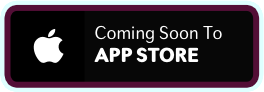
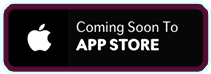
improvements

diff --git a/css/newsletter.css b/css/newsletter.css
@@ -137,7 +137,7 @@
     font-size: 17px;
 }
  div#sib_embed_signup .button{
-    font-size: 14px;
+    font-size: 25px;
 }
  div#sib_embed_signup input {
     font-size: 13px;
@@ -195,21 +195,26 @@
     text-shadow: rgb(81, 8, 51) 4px 0px 0px, rgb(81, 8, 51) 3.87565px 0.989616px 0px, rgb(81, 8, 51) 3.51033px 1.9177px 0px, rgb(81, 8, 51) 2.92676px 2.72656px 0px, rgb(81, 8, 51) 2.16121px 3.36588px 0px, rgb(81, 8, 51) 1.26129px 3.79594px 0px, rgb(81, 8, 51) 0.282949px 3.98998px 0px, rgb(81, 8, 51) -0.712984px 3.93594px 0px, rgb(81, 8, 51) -1.66459px 3.63719px 0px, rgb(81, 8, 51) -2.51269px 3.11229px 0px, rgb(81, 8, 51) -3.20457px 2.39389px 0px, rgb(81, 8, 51) -3.69721px 1.52664px 0px, rgb(81, 8, 51) -3.95997px 0.56448px 0px, rgb(81, 8, 51) -3.97652px -0.432781px 0px, rgb(81, 8, 51) -3.74583px -1.40313px 0px, rgb(81, 8, 51) -3.28224px -2.28625px 0px, rgb(81, 8, 51) -2.61457px -3.02721px 0px, rgb(81, 8, 51) -1.78435px -3.57996px 0px, rgb(81, 8, 51) -0.843183px -3.91012px 0px, rgb(81, 8, 51) 0.150409px -3.99717px 0px, rgb(81, 8, 51) 1.13465px -3.8357px 0px, rgb(81, 8, 51) 2.04834px -3.43574px 0px, rgb(81, 8, 51) 2.83468px -2.82216px 0px, rgb(81, 8, 51) 3.44477px -2.03312px 0px, rgb(81, 8, 51) 3.84068px -1.11766px 0px, rgb(81, 8, 51) 3.9978px -0.132717px 0px;
     color: #CDF2E8;
     font-weight: 250;
-    
-    background: #F78E39; 
-    display: inline-block; 
+    background: #F78E39;
+    display: inline-block;
     white-space: nowrap;
-     min-height: 60px;
-      margin: 0px 5px 0px 0px; 
-      padding: 0px 22px; 
-       text-transform: uppercase; 
-       text-align: center; 
-       font-size: 14px; 
-       cursor: pointer; 
-       border: 0px; 
-       border-radius: 4px; 
-       vertical-align: top; 
-       height: auto; 
+    /* min-height: 60px; */
+    /* margin: 0px 5px 0px 0px; */
+    padding: 2px 5px;
+    text-transform: uppercase;
+    text-align: center;
+    font-size: 14px;
+    cursor: pointer;
+    border: 3px solid #500e34;
+    border-radius: 20px;
+    vertical-align: top;
+    height: auto;
     line-height: 150%;
+    /* border-color: #500e34; */
+    width: 150px;
+    -webkit-box-shadow: 0px 0px 5px 5px rgba(255,255,255,1);
+    -moz-box-shadow: 0px 0px 5px 5px rgba(255,255,255,1);
+    box-shadow: 0px 0px 5px 5px rgba(255,255,255,1);
+        
 
 }

diff --git a/index.html b/index.html
@@ -147,13 +147,16 @@
             <div class="captcha forms-builder-group" style="">
                <div class="row" style="font-family: &quot;Helvetica Neue&quot;, Helvetica, Arial, sans-serif; color: rgb(52, 52, 52); font-size: 17px; padding: 10px 20px;">
                   <div id="gcaptcha" style="transform: scale(1); margin-left: 0px;"></div>
+                  <div class="byline" style="font-family: &quot;Helvetica Neue&quot;, Helvetica, Arial, sans-serif; color: rgb(52, 52, 52); font-weight: bold; font-size: 16px; text-align: center; display: block; padding-left: 100px;
+    padding-top: 13px;
+    align-content: center;">
+               <button class="button editable subcribe-button " type="submit" data-editfield="subscribe" >ENTER</button>
+            </div>
+            <div style="clear:both;"></div>
                </div>
             </div>
             <!-- end of primary -->
-            <div class="byline" style="font-family: &quot;Helvetica Neue&quot;, Helvetica, Arial, sans-serif; color: rgb(52, 52, 52); font-weight: bold; font-size: 16px; text-align: center; display: block;">
-               <button class="button editable subcribe-button " type="submit" data-editfield="subscribe" >Be Beta Tester</button>
-            </div>
-            <div style="clear:both;"></div>
+            
          </div>
       </form>
    </div>
@@ -199,13 +202,13 @@
       <div class="row">
         <div class="col-lg-6 mr-auto">
           <div class="footer-logo">
-            <img src="images/logo.png" alt="footer-logo">
+            <img src="images/titles/bunny-logo.png" alt="footer-logo">
           </div>
-          <div class="copyright">
+         <!-- <div class="copyright">
             <p>@2018 Themefisher All Rights Reserved  |  Design By : <a href="https://themefisher.com/" target="_blank">Themefisher</a>  Team
               <br>Get More <a href="https://themefisher.com/free-bootstrap-templates/" target="_blank">Free Bootstrap Templates</a>
             </p>
-          </div>
+          </div>-->
         </div>
         <div class="col-lg-6 text-lg-right">
           <!-- Social Icons -->

diff --git a/css/style.css b/css/style.css
@@ -596,7 +596,7 @@ a:focus, a:hover {
 }
 
 .footer-main {
-  padding: 50px 0;
+  padding: 20px 0;
   background: #500e34;
 }
 
@@ -698,7 +698,19 @@ a:focus, a:hover {
 @media (max-width: 768px) {
   .cta-subscribe .content {
     text-align: center;
+
   }
+  .cta-subscribe .row
+  {
+    padding-left: 0px;
+    padding-right: 0px;
+  }
+}
+
+.cta-subscribe .row
+{
+  padding-left: 100px;
+  padding-right: 100px;
 }
 
 .cta-subscribe .content .title {
